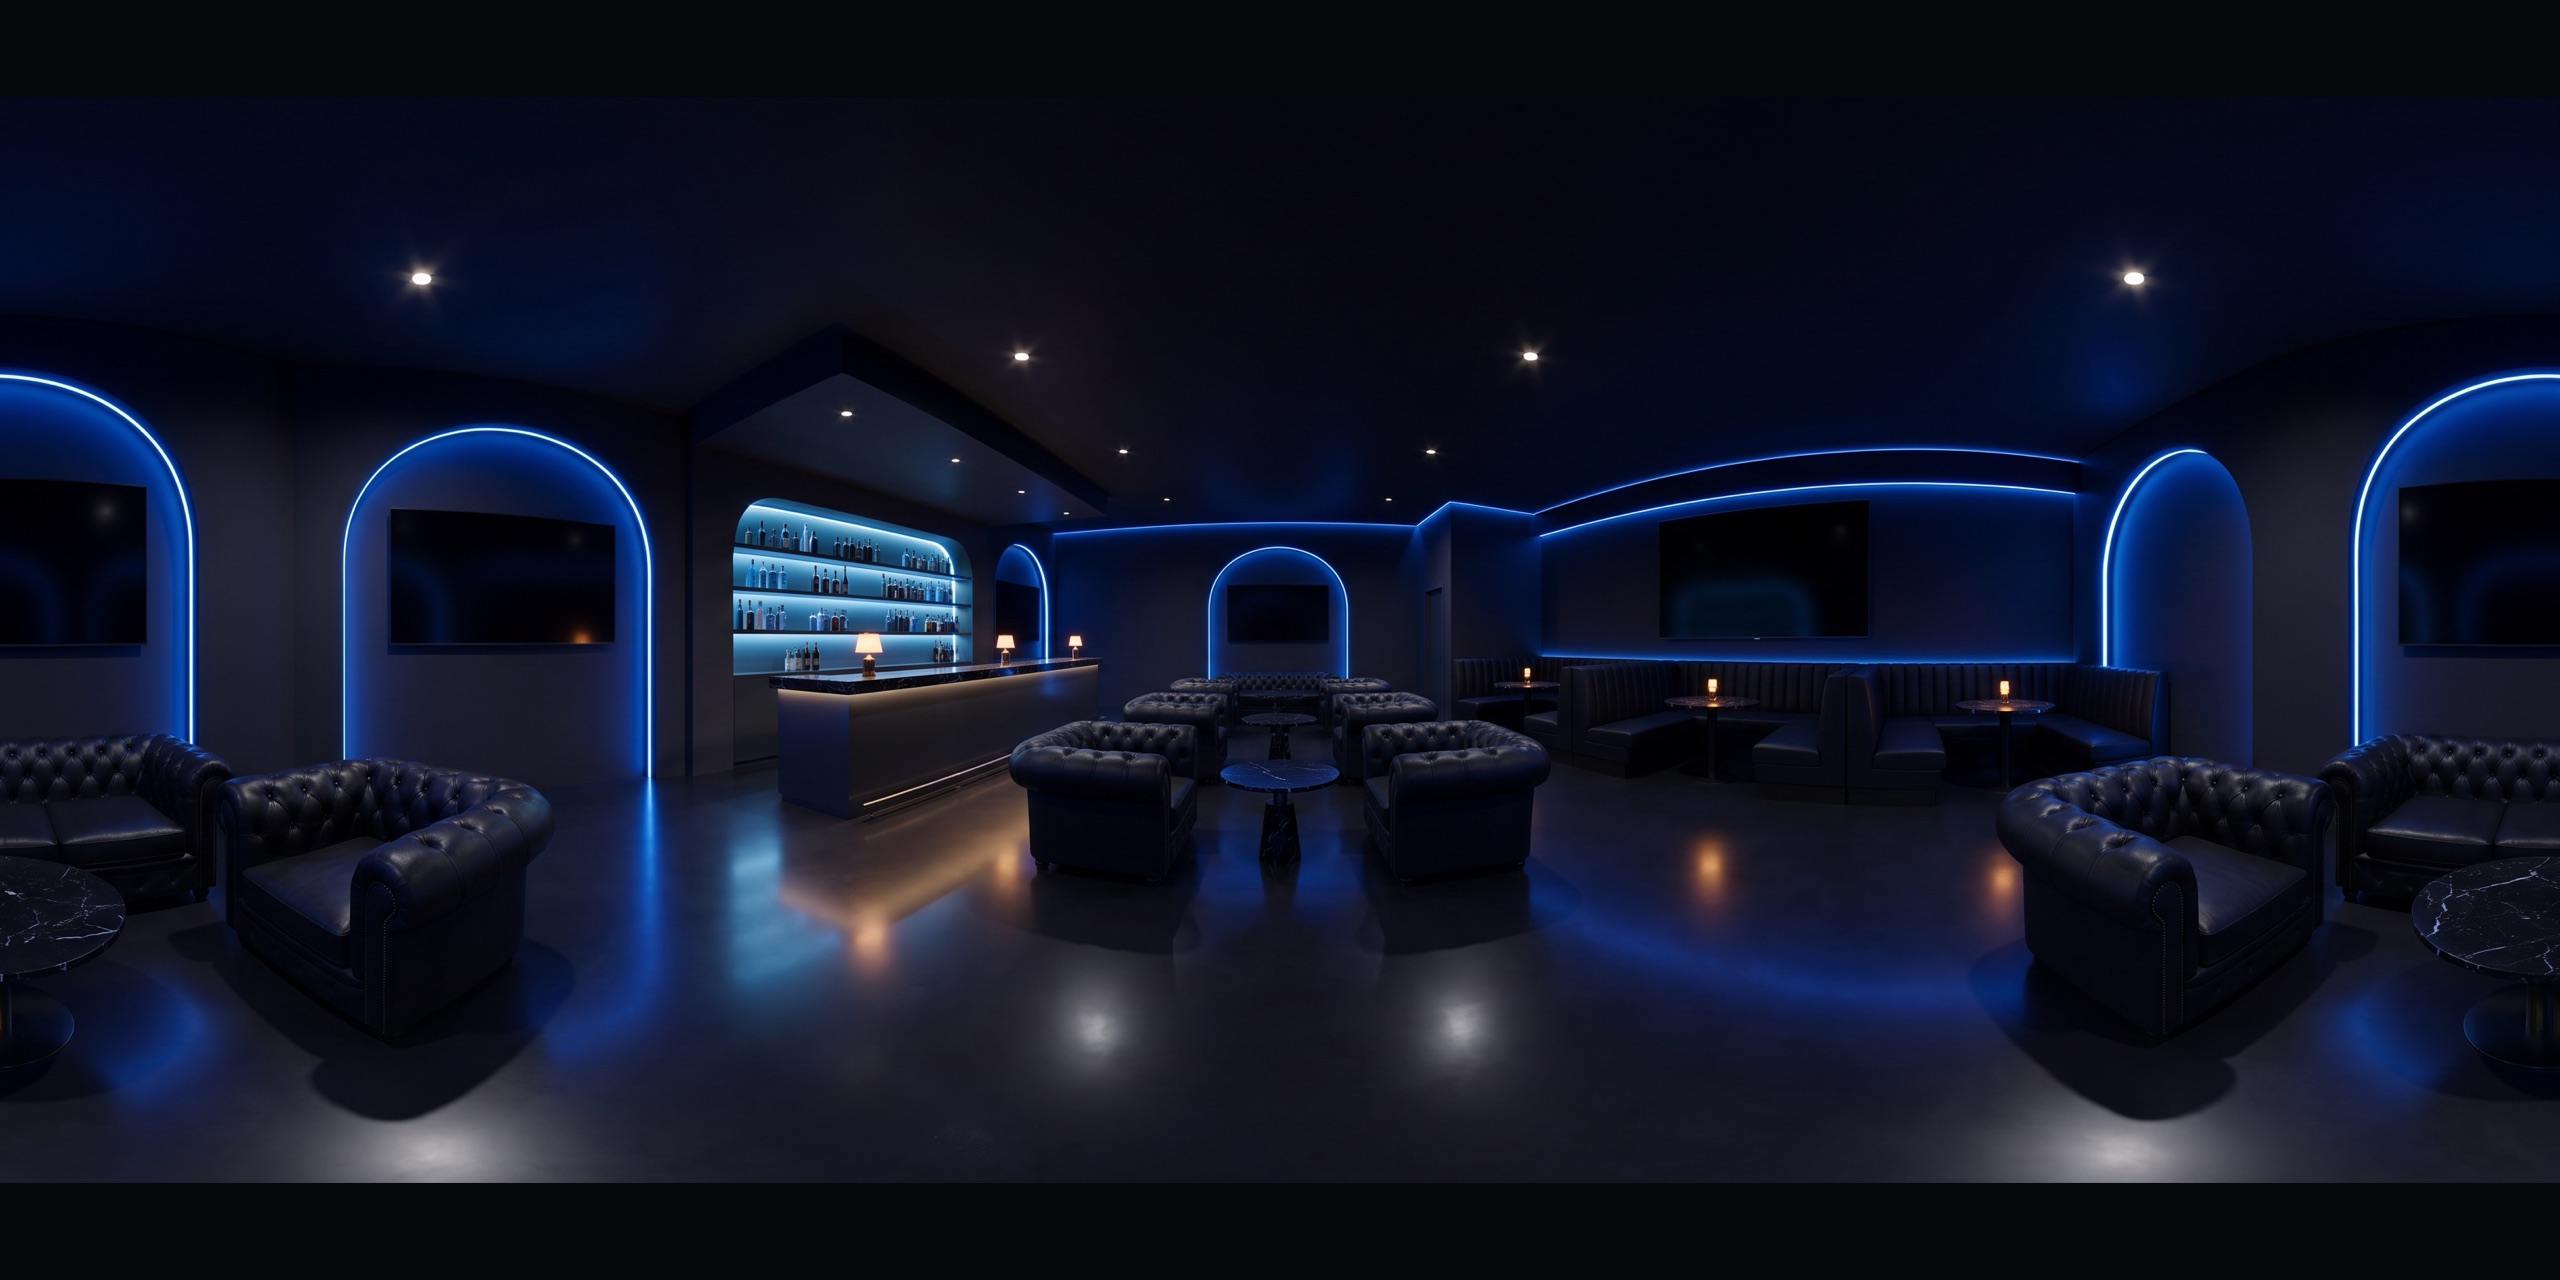
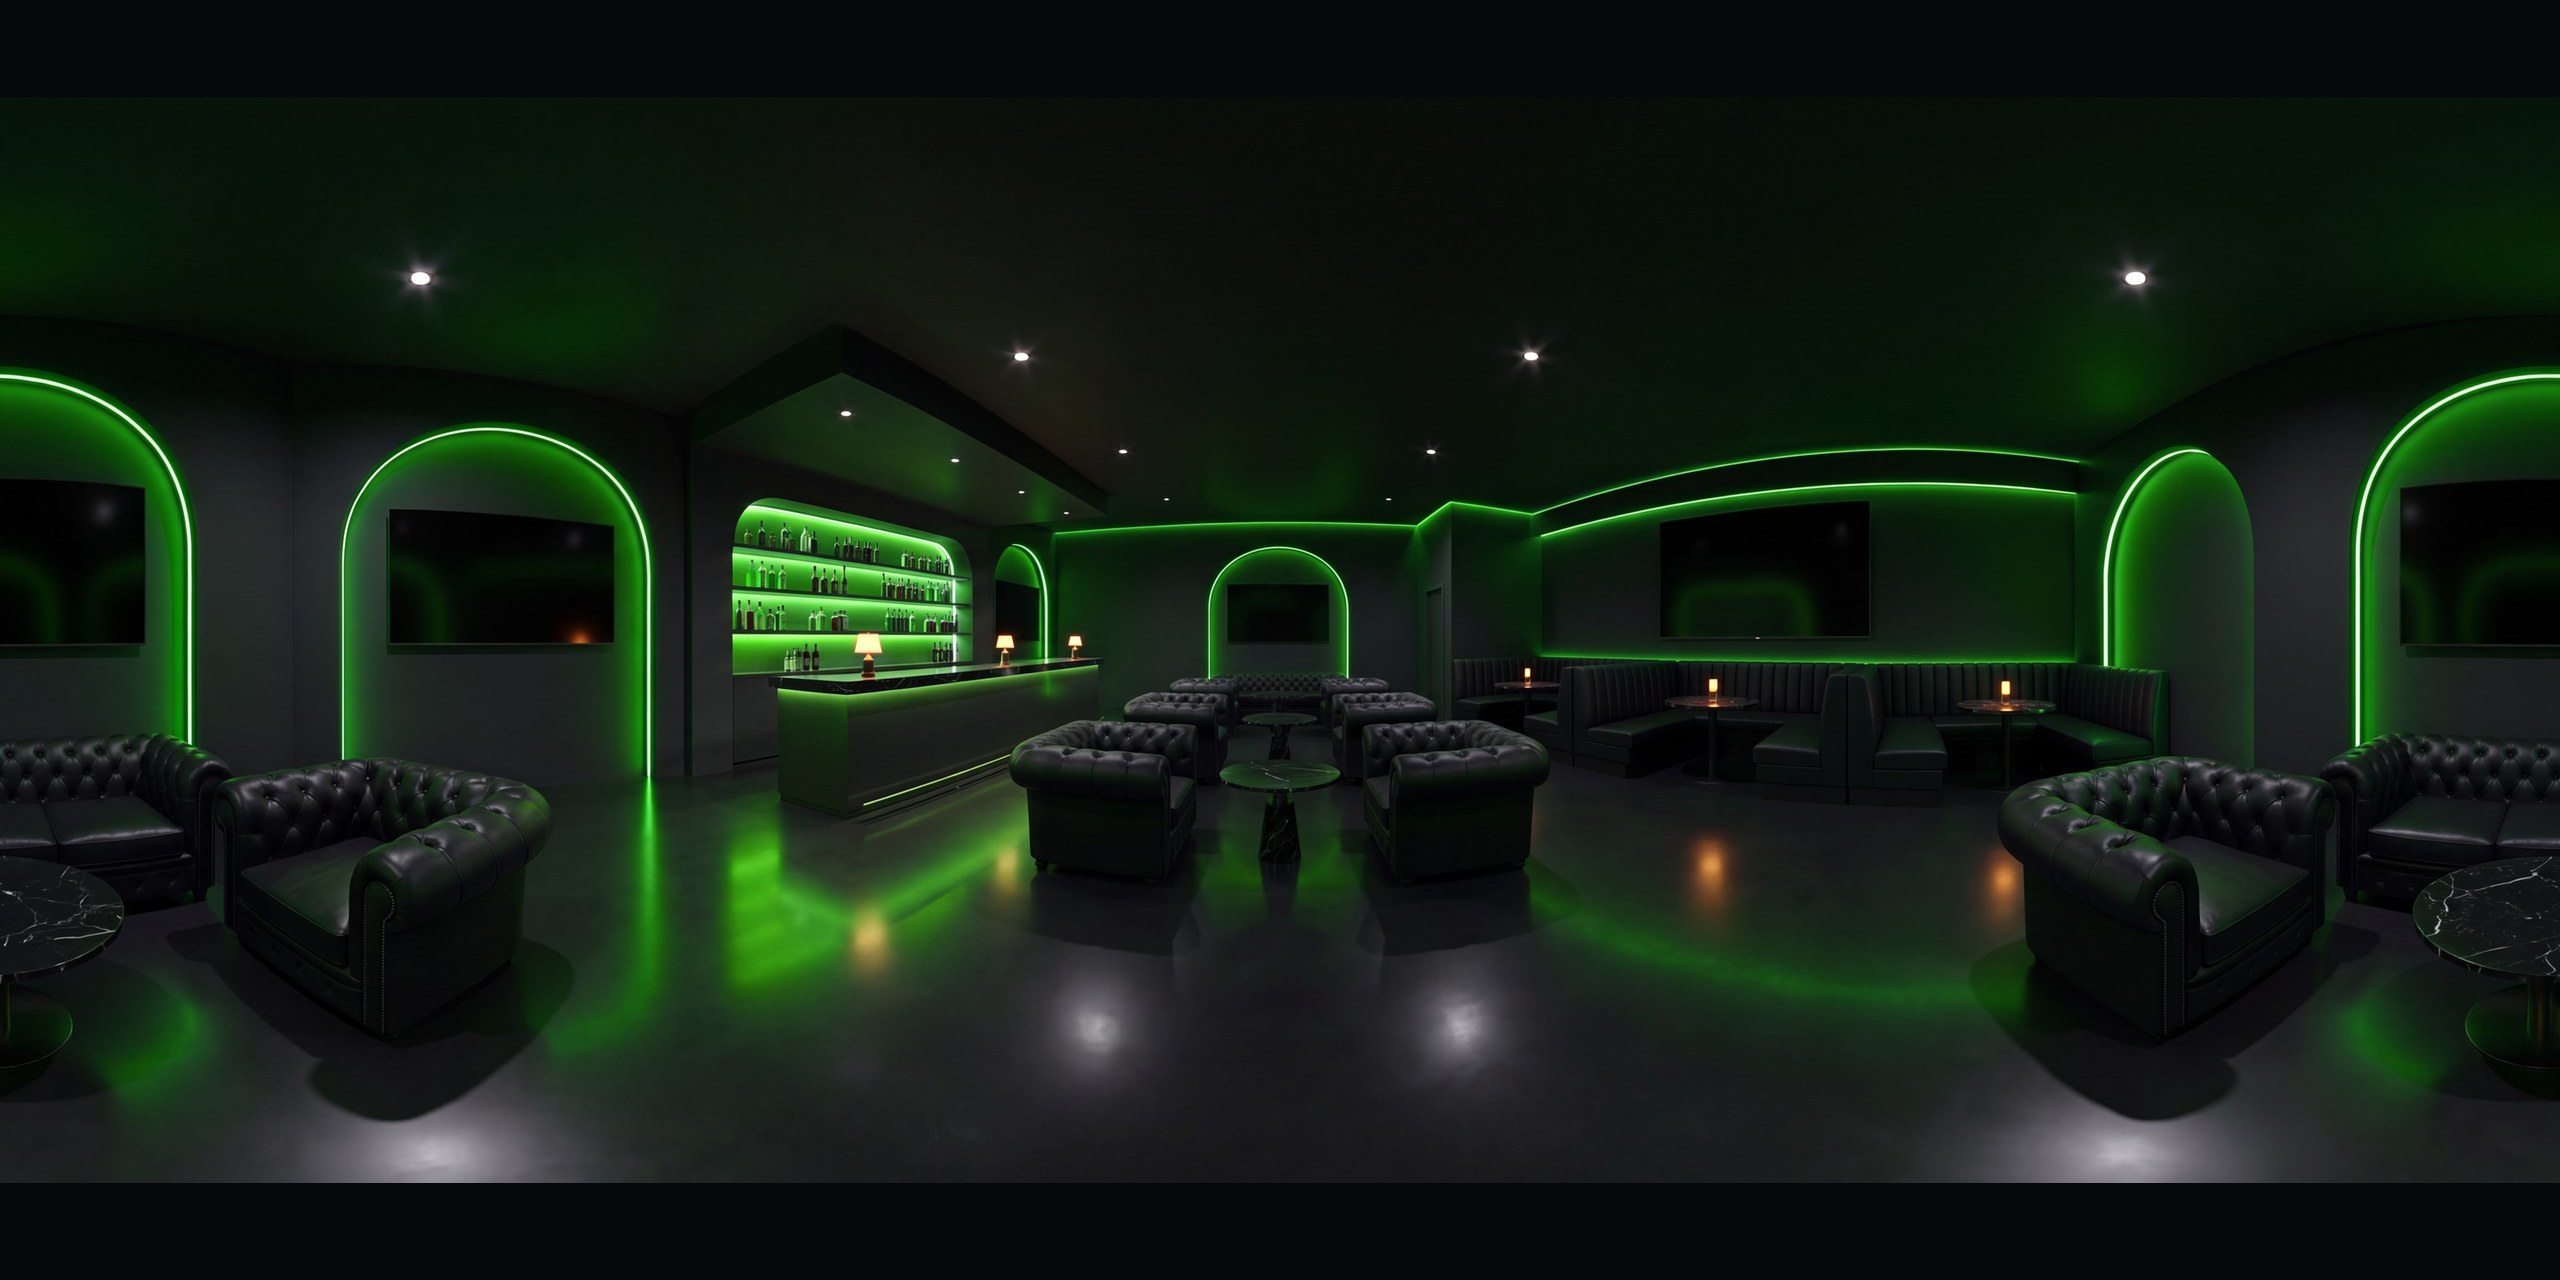
Ambiente da sinuca no tom da marca e desktop sem o glow atrás do jogo
O bar 360° da sinuca agora usa a versão da marca (tabela White Label).
No desktop saiu a elipse colorida desfocada atrás da coluna do jogo.

diff --git a/index.html b/index.html
@@ -13,11 +13,11 @@
 <link rel="preconnect" href="https://fonts.googleapis.com">
 <link rel="preconnect" href="https://fonts.gstatic.com" crossorigin>
 <link rel="stylesheet" href="https://fonts.googleapis.com/css2?family=Inter:wght@400;500;600;700&family=Sora:wght@600;700;800&display=swap">
-<link rel="stylesheet" href="css/tokens.css?v=loud-10280004">
-<link rel="stylesheet" href="css/ui.css?v=loud-10280004">
-<link rel="stylesheet" href="css/screens.css?v=loud-10280004">
-<link rel="stylesheet" href="css/game.css?v=loud-10280004">
-<link rel="stylesheet" href="css/desk.css?v=loud-10280004">
+<link rel="stylesheet" href="css/tokens.css?v=loud-10280010">
+<link rel="stylesheet" href="css/ui.css?v=loud-10280010">
+<link rel="stylesheet" href="css/screens.css?v=loud-10280010">
+<link rel="stylesheet" href="css/game.css?v=loud-10280010">
+<link rel="stylesheet" href="css/desk.css?v=loud-10280010">
 </head>
 <body>
 <svg width="0" height="0" style="position:absolute" aria-hidden="true">
@@ -73,15 +73,15 @@
   </div>
 </div></div>
 
-<script src="js/core.js?v=loud-10280004"></script>
-<script src="js/ui.js?v=loud-10280004"></script>
-<script src="js/screens.js?v=loud-10280004"></script>
-<script src="js/loja.js?v=loud-10280004"></script>
-<script src="js/social.js?v=loud-10280004"></script>
-<script src="js/battles.js?v=loud-10280004"></script>
-<script src="js/games.js?v=loud-10280004"></script>
-<script src="js/sinuca.js?v=loud-10280004"></script>
-<script src="js/desk.js?v=loud-10280004"></script>
-<script src="js/boot.js?v=loud-10280004"></script>
+<script src="js/core.js?v=loud-10280010"></script>
+<script src="js/ui.js?v=loud-10280010"></script>
+<script src="js/screens.js?v=loud-10280010"></script>
+<script src="js/loja.js?v=loud-10280010"></script>
+<script src="js/social.js?v=loud-10280010"></script>
+<script src="js/battles.js?v=loud-10280010"></script>
+<script src="js/games.js?v=loud-10280010"></script>
+<script src="js/sinuca.js?v=loud-10280010"></script>
+<script src="js/desk.js?v=loud-10280010"></script>
+<script src="js/boot.js?v=loud-10280010"></script>
 </body>
 </html>

diff --git a/js/sinuca.js b/js/sinuca.js
@@ -10,7 +10,7 @@ function startSinuca(tableId) {
   const q = new URLSearchParams({nick: ST.nick, crew: ST.crew, g: ST.g, opp: OPP.n, mesa: tableId, q: '0'});
   const w = document.createElement('section');
   w.className = 'scr sinuca-scr'; w.id = 'sinucaWrap';
-  w.innerHTML = `<iframe id="sinucaFrame" title="Sinuca · Bola 8" allow="autoplay; fullscreen" src="sinuca/index.html?v=loud-10280004#embed=${ST.stake}&${q}"></iframe>`;
+  w.innerHTML = `<iframe id="sinucaFrame" title="Sinuca · Bola 8" allow="autoplay; fullscreen" src="sinuca/index.html?v=loud-10280010#embed=${ST.stake}&${q}"></iframe>`;
   closeSheet(); closeNotifs(); pauseViewVideos();
   $('#view').hidden = true; $('#scr-game').hidden = true;
   $('#app').appendChild(w);

diff --git a/css/desk.css b/css/desk.css
@@ -8,7 +8,6 @@ body.dk.dk-ob{--dkl:0px;--dkr:0px}
 
 /* ---------- coluna 9:16 ---------- */
 body.dk .stage-wrap{inset:var(--dkh) var(--dkr) 0 var(--dkl)}
-body.dk .stage-wrap::before{content:"";position:absolute;left:50%;top:50%;width:min(880px,90%);height:80%;transform:translate(-50%,-50%);border-radius:50%;background:var(--dk-gc);filter:blur(120px);opacity:.14;pointer-events:none;transition:background .4s}
 body.dk .phone{width:396px;height:704px;border-radius:24px;box-shadow:0 0 0 1px var(--border-default),0 0 0 2px #ffffff0a,0 32px 80px var(--shadow-strong)}
 body.dk .status{display:none}
 /* o header e a navbar da tela saem da coluna: viram o header e o menu do desktop */
